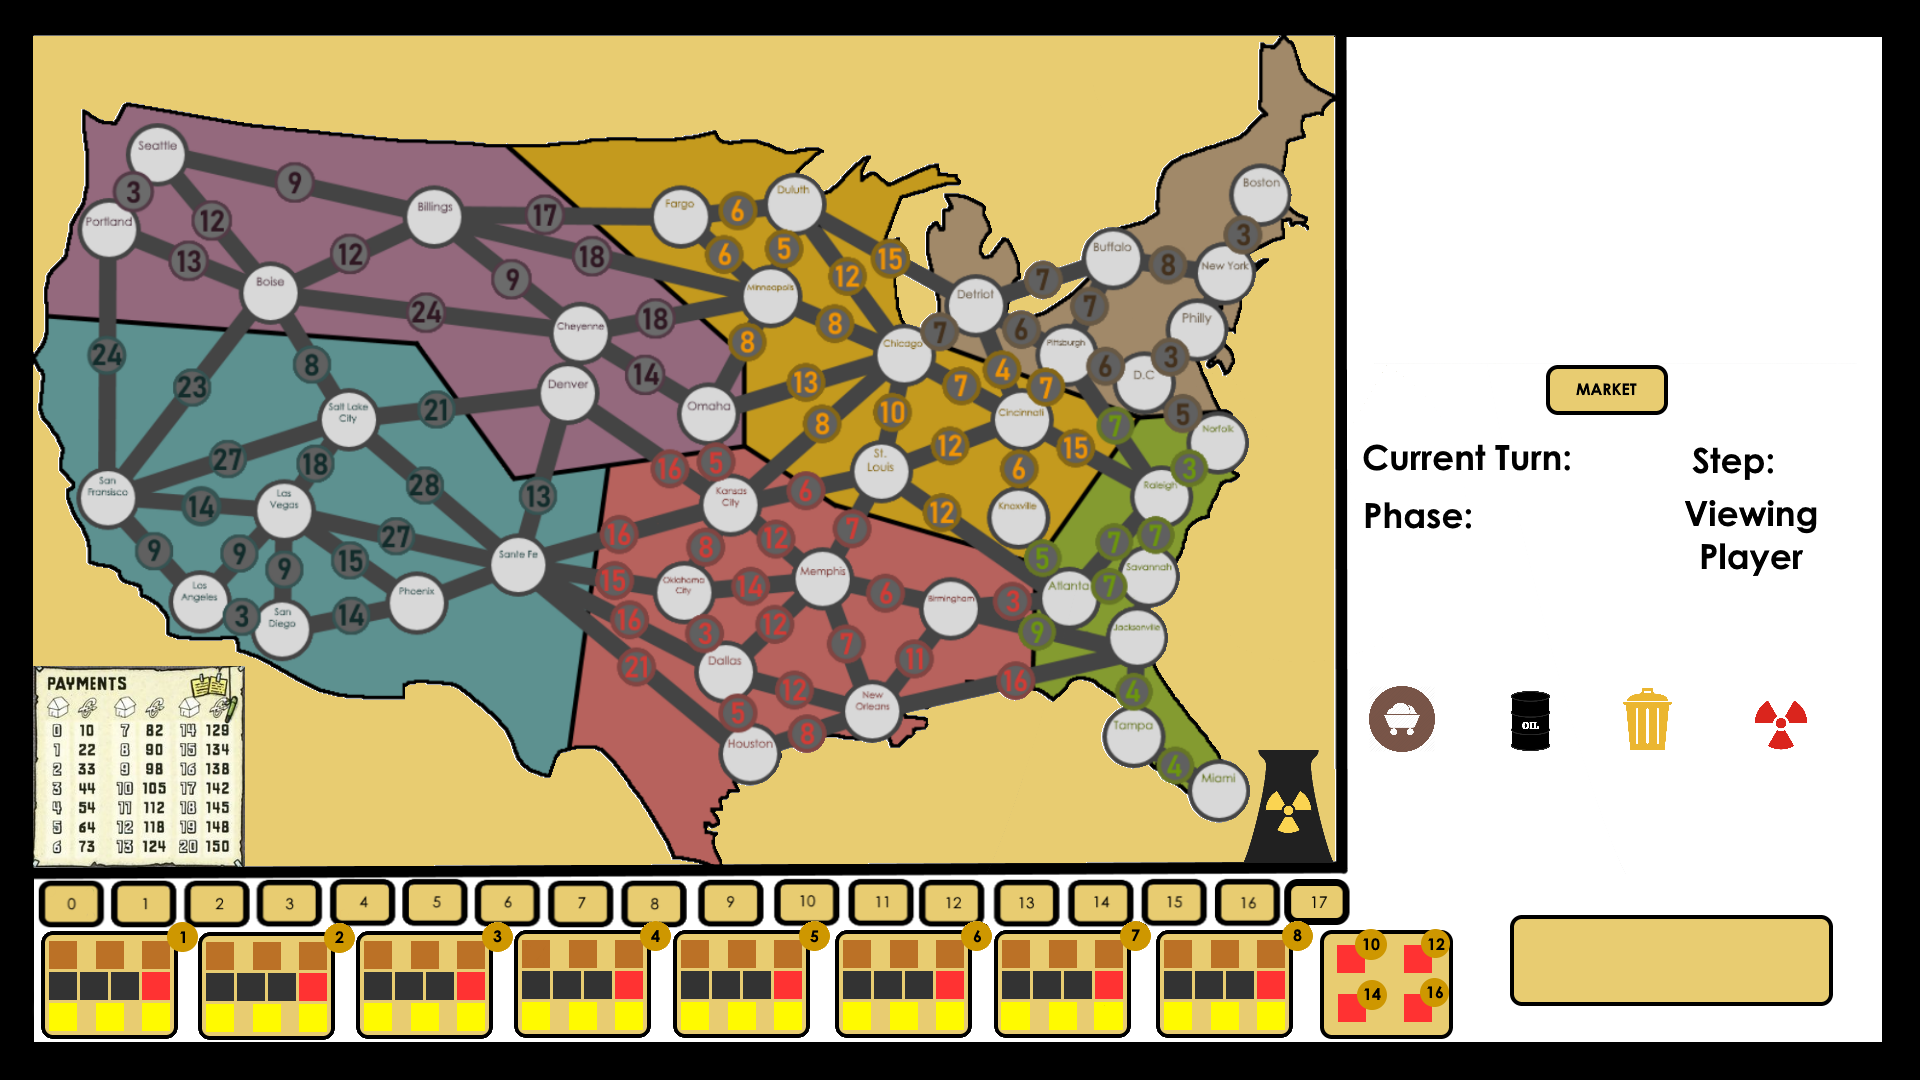
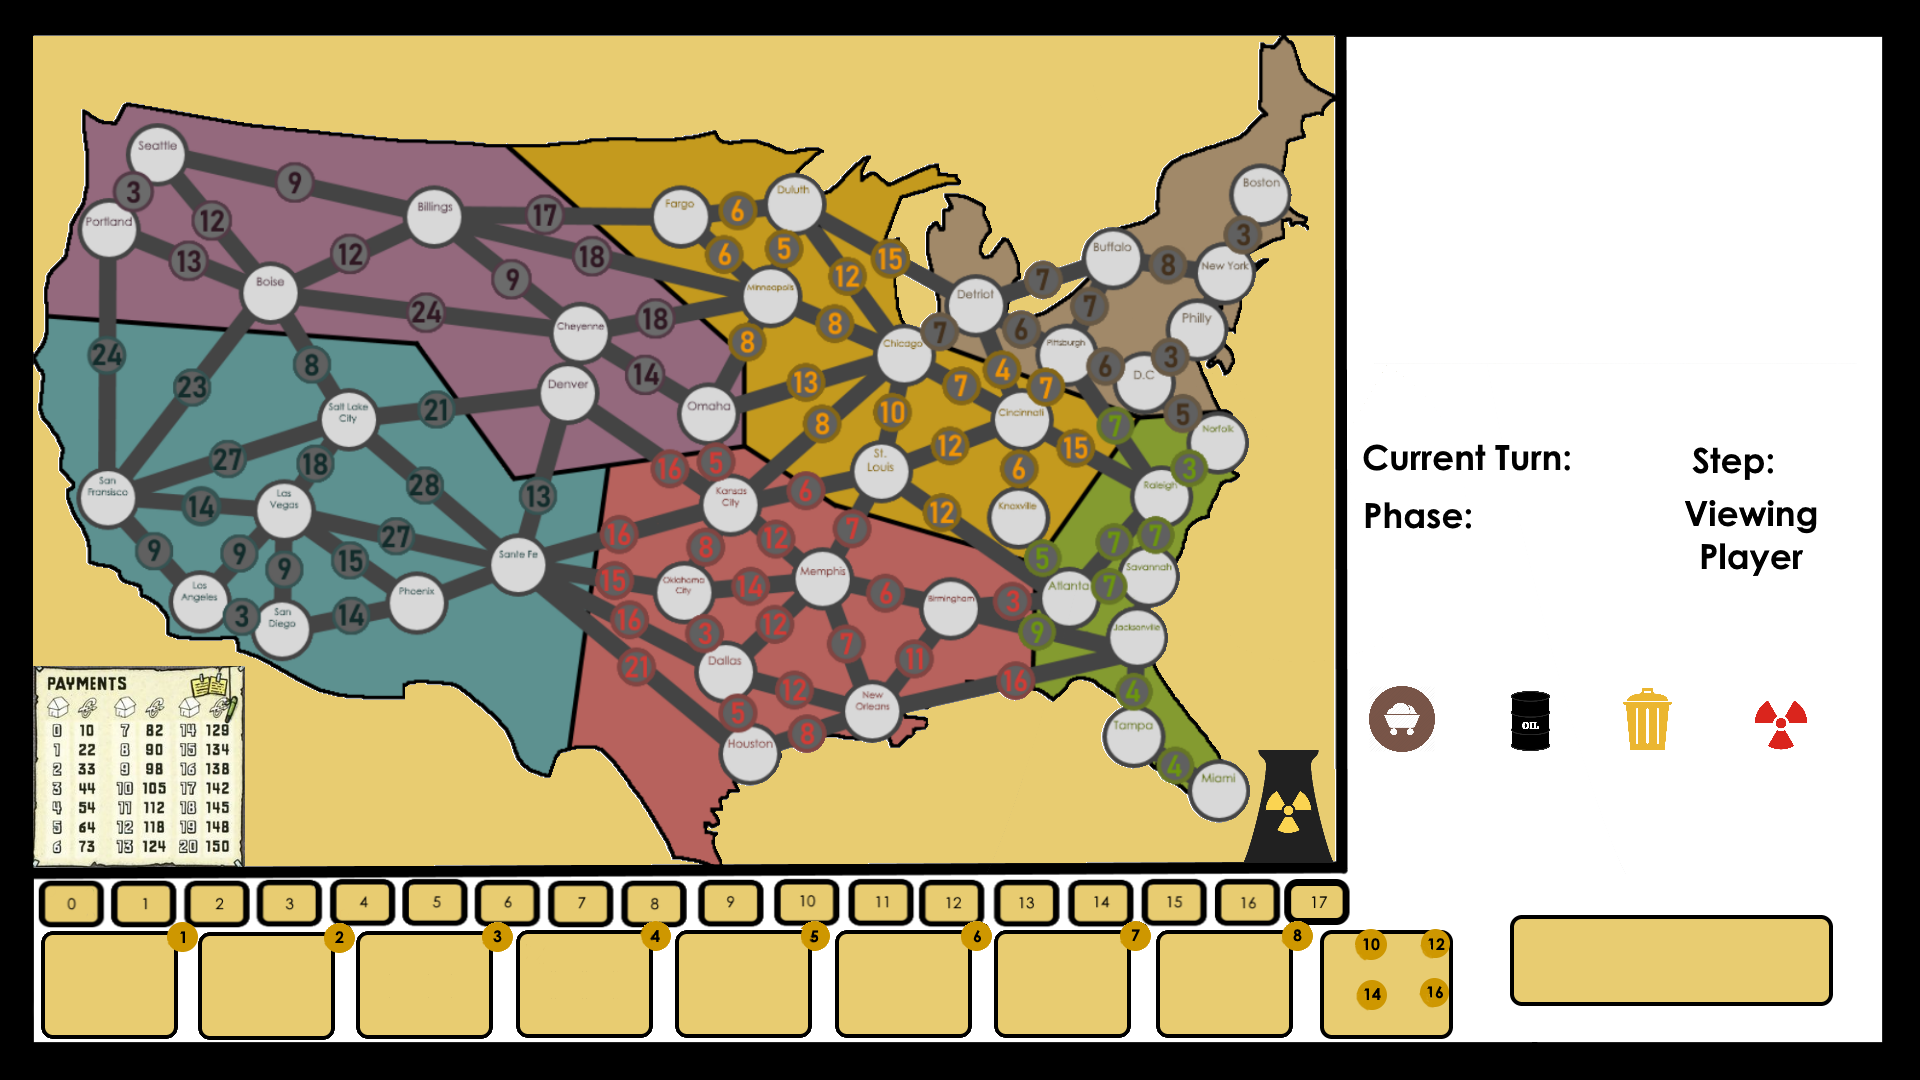
Editted Market GUI

Changed region(s): [[0.0, 0.8556, 0.75, 0.9778], [0.7812, 0.3361, 0.875, 0.3972]]

diff --git a/src/GridPanel.java b/src/GridPanel.java
@@ -1,6 +1,8 @@
+import java.awt.BasicStroke;
 import java.awt.Color;
 import java.awt.Font;
 import java.awt.Graphics;
+import java.awt.Graphics2D;
 import java.util.ArrayList;
 import java.util.HashMap;
 import java.util.HashSet;
@@ -37,6 +39,8 @@ public class GridPanel extends JPanel {
 	
 	public void paintComponent(Graphics g) {
 		super.paintComponent(g);
+		Graphics2D g2 = (Graphics2D) g;
+		
 		if(screen == 0) {
 			g.drawImage(new ImageIcon("powergrid.PNG").getImage(), 0, 0, 1920, 1080, null);
 			g.setFont(new Font("Courier", Font.BOLD, 50));
@@ -91,11 +95,44 @@ public class GridPanel extends JPanel {
 			int phase = (int) gs.get(7);
 			int turn = (int) gs.get(6);
 			
+			if(phase == 1) {
+				g.setColor(colors.get("sec"));
+				g.fillRect(610, 50, 158, 60);
+				g.setColor(colors.get("pri"));
+				g2.setStroke(new BasicStroke(7));
+				g2.drawRect(610, 50, 158, 60);
+				g.setFont(new Font("Courier", Font.BOLD, 18));
+				g.drawString("GO TO AUCTION", 620, 85);
+				
+			}
+			else if(phase == 2) {
+				g.setColor(colors.get("sec"));
+				g.fillRect(610, 50, 158, 60);
+				g.setColor(colors.get("pri"));
+				g2.setStroke(new BasicStroke(7));
+				g2.drawRect(610, 50, 158, 60);
+				g.setFont(new Font("Courier", Font.BOLD, 18));
+				g.drawString("GO TO MARKET", 622, 85);
+			}
+			
 			for(String k : map.getGraph().keySet()) {
 				City c = map.getGraph().get(k);
 				if(locked.contains(c.getColor())) {
 					g.drawImage(new ImageIcon("cloud.png").getImage(), c.getMinX() - 10, c.getMinY(), 83, 50, null);
 				}
+			}
+			
+			for(int i = 0; i < 24; i++) {
+				g.setColor(new Color(180, 108, 2));
+				g.fillRect(50 + (i/3) * 24 + i*45, 940, 30, 30);
+				g.setColor(Color.DARK_GRAY);
+				g.fillRect(50 + (i/3) * 69 + i*30, 972, 28, 28);
+				g.setColor(Color.YELLOW);
+				g.fillRect(50 + (i/3) * 24 + i*45, 1002, 30, 30);
+			}
+			for(int i = 0; i < 8; i++) {
+				g.setColor(Color.RED);
+				g.fillRect(140 + i*159, 972, 28, 28);
 			}
 			
 			if(cityPopup != null) {

diff --git a/src/GridGraphics.java b/src/GridGraphics.java
@@ -67,11 +67,12 @@ public class GridGraphics extends JFrame {
             			} 
             		}
             		else if(board.getPhase() == 1) {
-            			if(panel.getAuctionPopup() == 0 && e.getX() >= 1547 && e.getY() >= 366 && e.getX() <= 1666 && e.getY() <= 411) {
+            			if(panel.getAuctionPopup() == 0 && e.getX() >= 610 && e.getY() >= 50 && e.getX() <= 768 && e.getY() <= 110) {
             				if(board.getAuction().getHighestBid() > 0)
             					panel.setAuctionPopup(3);
             				else
             					panel.setAuctionPopup(1);
+            				//610, 50, 158, 60
             			}
             			else {
             				if(e.getX() >= 860 && e.getX() <= 875 && e.getY() >= 310 && e.getY() <= 325)
@@ -103,7 +104,6 @@ public class GridGraphics extends JFrame {
             						board.getAuction().setAuction(panel.getAuctionCard(), panel.getPrice(), board.getTurn(), board.getAuctionOrder());
             						panel.setPrice(panel.getPrice() + 1);
             						panel.setAuctionPopup(3);
-            						System.out.println(board.getAuction().getOrder());
             					}
             				}
             				else if(panel.getAuctionPopup() == 3) {

diff --git a/src/Auction.java b/src/Auction.java
@@ -77,8 +77,6 @@ public class Auction {
 			if(players[k].getTurn() == order.get(turn))
 				bt = k;
 		}
-		System.out.println("START " + Board.TURN_COLORS[players[bt].getTurn()]);
-		System.out.println("ACTUAL " + turn);
 		while(players[bt].getMoney() <= highestBid && bt != highestBidIndex) {
 			System.out.println(Board.TURN_COLORS[players[bt].getTurn()]);
 			pass(turn);
